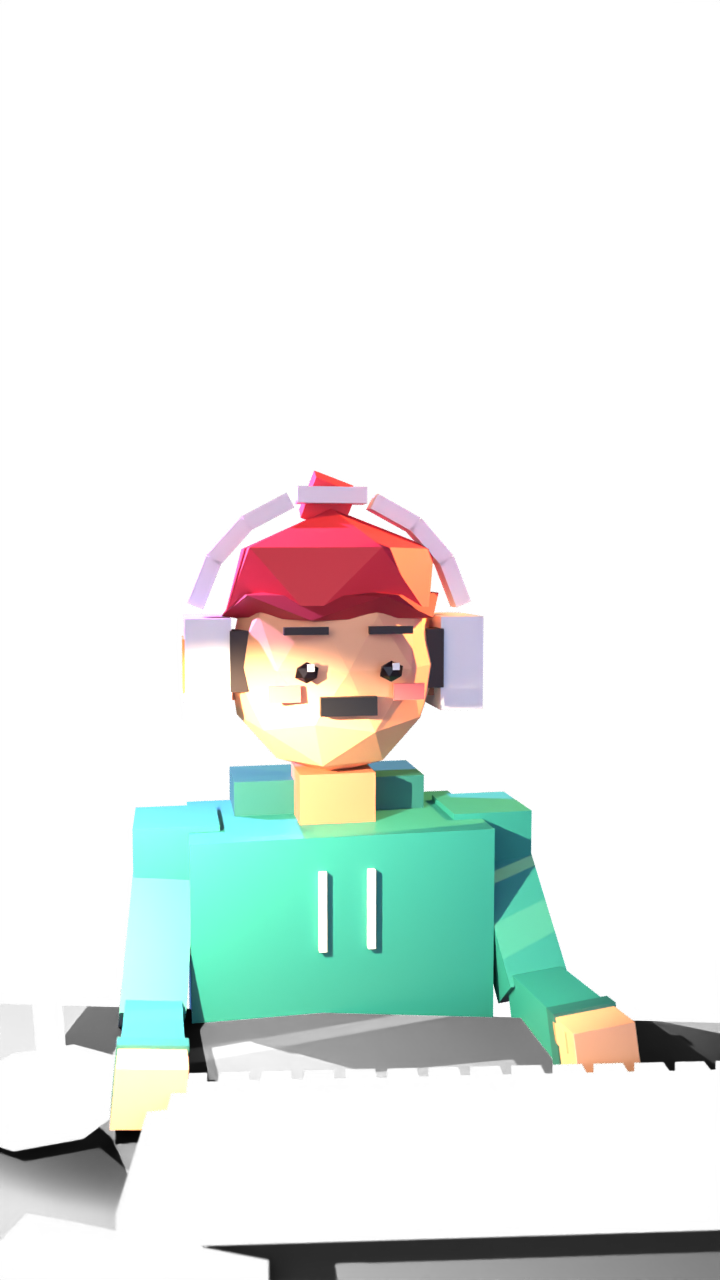
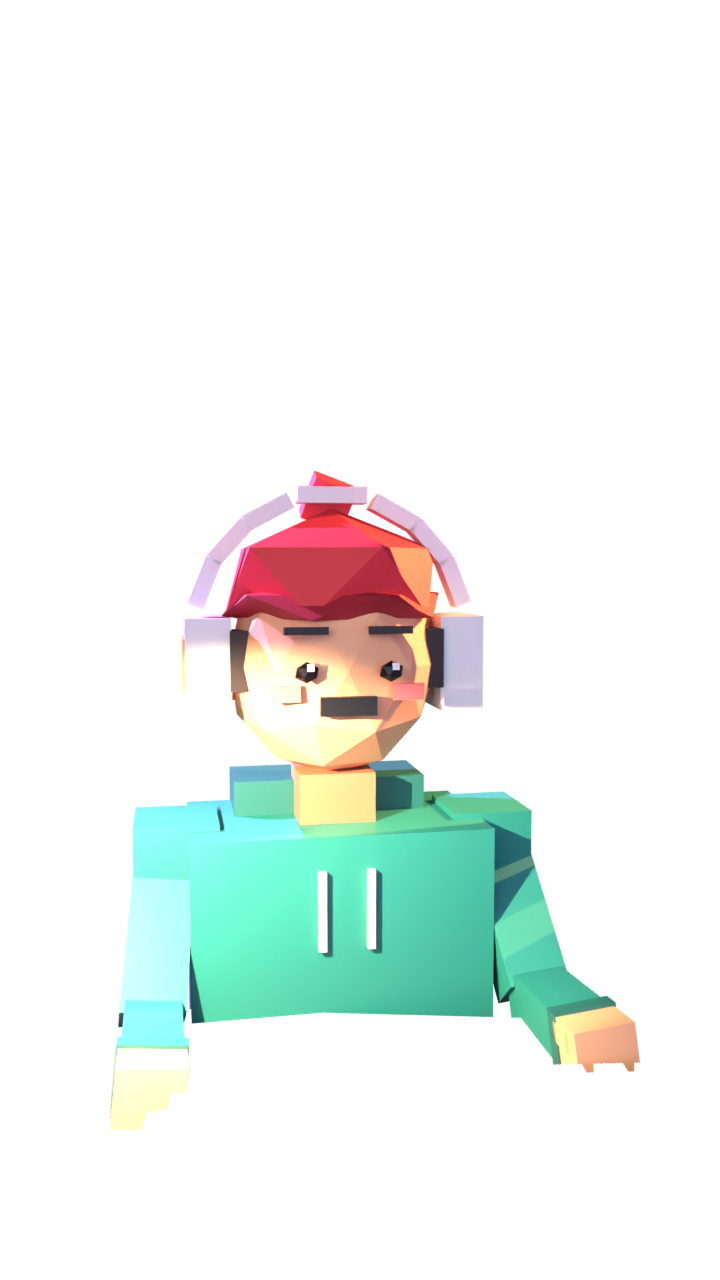
videosclaude: sombras fijas en capa aparte, poses/expresiones malas eliminadas (re-render de biblioteca en progreso)
Claude-Session: https://claude.ai/code/session_01UH48RdTZGtKBWsBMCmwfW2

diff --git a/videosclaude/motor/render_biblioteca.py b/videosclaude/motor/render_biblioteca.py
@@ -1,8 +1,9 @@
 """Renderiza LA BIBLIOTECA de capas reutilizables (se hace UNA vez; los videos se montan despues con montar_video.py).
 
 Por cada PLANO (camara) genera:
+  sombra_humano.png / sombra_claude.png -> SOLO la sombra de cada personaje sobre el escritorio (capa FIJA: no se mueve con los botecitos)
   fondo.png                       -> habitacion sin personajes, con la pantalla del monitor VACIA (neutra)
-  humano_<emocion>_<boca>.png     -> solo el humano, fondo transparente (RGBA) + sombra sobre el escritorio
+  humano_<emocion>_<boca>.png     -> solo el humano, fondo transparente (RGBA), SIN sombra
   claude_<estado>.png             -> solo Clawd, fondo transparente (RGBA)
 y un manifest.json con el cuadrilatero de la pantalla (para pegar cualquier imagen en el monitor con perspectiva).
 
@@ -16,7 +17,11 @@ import escena as E
 import bpy
 from bpy_extras.object_utils import world_to_camera_view
 
-OUT = sys.argv[1]; ONLY = sys.argv[2:]
+OUT = sys.argv[1]; ARGS = sys.argv[2:]
+SIN_FONDO = '--sin-fondo' in ARGS
+ONLY = [a for a in ARGS if not a.startswith('--')]
+import numpy as np
+from PIL import Image
 W, H = 720, 1280
 sc = E.sc; sc.render.resolution_x, sc.render.resolution_y = W, H
 sc.render.image_settings.color_mode = 'RGBA'
@@ -37,14 +42,31 @@ def capa_fondo():
     reset()
     for o in HUM | CLA: o.hide_render = True
 
-def capa_personaje(quien):   # 'h' o 'c'
+def capa_personaje(quien):   # 'h' o 'c'  -> SOLO el personaje, SIN sombra (la sombra va en su propia capa fija)
     reset(); sc.render.film_transparent = True
     mios, otros = (HUM, CLA) if quien == 'h' else (CLA, HUM)
     for o in otros: o.hide_render = True
     for o in MESHES:
         if o in HUM or o in CLA: continue
         o.is_holdout = True            # el resto de la sala recorta (oclusion correcta) pero no se ve
-    DESK.is_holdout = False; DESK.is_shadow_catcher = True   # solo su sombra
+
+def capa_sombra(visibles):   # solo la sombra sobre el escritorio (shadow catcher) con los personajes `visibles`
+    reset(); sc.render.film_transparent = True
+    for o in HUM | CLA: o.hide_render = o not in visibles
+    for o in MESHES:
+        if o in HUM or o in CLA: o.is_holdout = True          # recorta al personaje pero proyecta sombra
+        elif o is DESK: o.is_shadow_catcher = True
+        else: o.is_holdout = True
+
+def sombra_de(quien, ruta, tmp0):
+    """sombra que anade el personaje = (sombra con el) - (sombra sin el). Solo canal alfa, color negro."""
+    vis = HUM if quien == 'h' else CLA
+    capa_sombra(vis); E.render(ruta + '.tmp.png')
+    a1 = np.array(Image.open(ruta + '.tmp.png').convert('RGBA'))[..., 3].astype(int)
+    a0 = np.array(Image.open(tmp0).convert('RGBA'))[..., 3].astype(int)
+    d = np.clip(a1 - a0, 0, 255).astype(np.uint8)
+    out = np.zeros(d.shape + (4,), np.uint8); out[..., 3] = d
+    Image.fromarray(out, 'RGBA').save(ruta); os.remove(ruta + '.tmp.png')
 
 # --- estados del humano: emocion x boca
 EMO = {'neutral': 'neutral', 'feliz': 'happy', 'preocupado': 'worried', 'burlon': 'smug'}
@@ -90,12 +112,15 @@ for nombre, P in PLANOS.items():
     E.SCR.data.materials.clear(); E.SCR.data.materials.append(E.SCREENS['vacia'])
     E.set_cam(*B['cam'])
     info = {'camara': [list(B['cam'][0]), list(B['cam'][1]), B['cam'][2]], 'descripcion': B['desc'],
-            'pantalla_quad': quad_pantalla(), 'fondo': 'fondo.png', 'humano': {}, 'claude': {}}
+            'pantalla_quad': quad_pantalla(), 'fondo': 'fondo.png', 'sombra': {}, 'humano': {}, 'claude': {}}
     # fondo
     E.set_human('type', 'neutral'); E.set_clawd(E.POS['lamp'], 'stand')
-    capa_fondo(); E.render(f'{d}/fondo.png'); print('OK', nombre, 'fondo', flush=True)
+    if not (SIN_FONDO and os.path.exists(f'{d}/fondo.png')):
+        capa_fondo(); E.render(f'{d}/fondo.png'); print('OK', nombre, 'fondo', flush=True)
+    tmp0 = f'{d}/_s0.png'; capa_sombra(set()); E.render(tmp0)
     # humano
     if P['humano']:
+        E.set_human('type', 'neutral'); sombra_de('h', f'{d}/sombra_humano.png', tmp0); info['sombra']['humano'] = 'sombra_humano.png'; print('OK', nombre, 'sombra_humano', flush=True)
         for emo in EMO:
             for boca in BOCA:
                 humano(emo, boca); capa_personaje('h')
@@ -106,11 +131,13 @@ for nombre, P in PLANOS.items():
     # clawd
     if P['clawd']:
         pos, pose = P['clawd']
+        claude(pos, 'idle', pose); sombra_de('c', f'{d}/sombra_claude.png', tmp0); info['sombra']['claude'] = 'sombra_claude.png'; print('OK', nombre, 'sombra_claude', flush=True)
         estados = ['idle'] if pose == 'look' else ['idle', 'parpadeo', 'feliz']
         for est in estados:
             claude(pos, est, pose); capa_personaje('c')
             f = f'claude_{est}.png'; E.render(f'{d}/{f}'); info['claude'][est] = f
             print('OK', nombre, f, flush=True)
+    os.remove(tmp0)
     manifest['planos'][nombre] = info
     json.dump(manifest, open(mf_path, 'w'), indent=1, ensure_ascii=False)
 reset(); print('BIBLIOTECA LISTA')

diff --git a/videosclaude/motor/escena.py b/videosclaude/motor/escena.py
@@ -226,23 +226,15 @@ for name, sx in (('L', -1), ('R', 1)):
     ARM[name] = (sh, el)
 
 # poses: (hombro_x, hombro_y, codo_x, codo_y) para L y R, inclinacion cabeza (x,y,z), torso x
-HPOSE = {
-    'type':  dict(L=(-38, 6, -58, 0),  R=(-38, -6, -58, 0), head=(0, 0, 0), lean=0),
-    'mouse': dict(L=(-38, 6, -58, 0),  R=(-30, -30, -62, 18), head=(0, R and 0, 0), lean=0),
-    'think': dict(L=(-38, 6, -58, 0),  R=(-70, -42, -100, 0), head=(0, 0, 6), lean=2),
-    'shrug': dict(L=(-6, 38, -78, 30), R=(-6, -38, -78, -30), head=(0, 0, 8), lean=0, raise_=0.07),
-    'lean':  dict(L=(-34, 8, -64, 0),  R=(-58, -34, -105, 0), head=(6, 0, -8), lean=12),
-    'point': dict(L=(-38, 6, -58, 0),  R=(-70, -45, -26, 0), head=(0, 0, -4), lean=3),
-    'facepalm': dict(L=(-38, 6, -58, 0), R=(-64, -40, -105, 0), head=(14, 0, 0), lean=8),
+HPOSE = {   # solo queda la pose que funciona: manos en el teclado. (pensar/facepalm/encoger/inclinar/señalar se BORRARON: los brazos no articulaban bien)
+    'type': dict(L=(-38, 6, -58, 0), R=(-38, -6, -58, 0), head=(0, 0, 0), lean=0),
 }
 # expresiones: boca(w,h), cejas(y, rot), ojos(escala z), pupila escala
 EXPR = {
     'neutral':   dict(mouth=(0.08, 0.018), brow=(0.115, 0), eye=1.0),
     'talk':      dict(mouth=(0.06, 0.028), brow=(0.125, 0), eye=1.0),
-    'surprised': dict(mouth=(0.04, 0.032), brow=(0.16, 0), eye=1.2),
     'worried':   dict(mouth=(0.06, 0.012), brow=(0.135, 14), eye=1.0),
     'smug':      dict(mouth=(0.09, 0.012), brow=(0.13, -10), eye=0.6),
-    'sleepy':    dict(mouth=(0.045, 0.012), brow=(0.1, 0), eye=0.3),
     'happy':     dict(mouth=(0.09, 0.03), brow=(0.13, 0), eye=0.55),
 }
 def set_human(pose, expr):
@@ -271,16 +263,9 @@ for n, sx in (('L', -1), ('R', 1)):
     cube('carm_m', (sx * 0.2, 0, 0), (0.22, 0.2, 0.15), M_claw, p); CARM[n] = p
 CEYES = [cube('ceye', (sx * 0.26, -0.435, 0.6), (0.075, 0.02, 0.1), M_dark, CB) for sx in (-1, 1)]
 CHL = [cube('chl', (sx * 0.26 + 0.02, -0.452, 0.65), (0.022, 0.006, 0.03), M_white, CB) for sx in (-1, 1)]
-CPOSE = {
-    'stand':  dict(arms=(-18, 18), eye=1.0, squash=1.0, rz=-10, ry=0, hop=0),
-    'wave':   dict(arms=(-18, -82), eye=1.0, squash=1.0, rz=-10, ry=0, hop=0),
-    'cheer':  dict(arms=(75, -75), eye=0.35, squash=1.1, rz=0, ry=0, hop=0.12),
-    'curious': dict(arms=(-10, 10), eye=1.15, squash=1.0, rz=-20, ry=11, hop=0),
-    'shy':    dict(arms=(-30, 30), eye=0.3, squash=0.92, rz=-25, ry=0, hop=0),
-    'look':   dict(arms=(-18, 18), eye=1.0, squash=1.0, rz=140, ry=0, hop=0),   # de espaldas, mirando la pantalla
-    'sit':    dict(arms=(-40, 40), eye=1.0, squash=0.95, rz=-8, ry=0, hop=-0.1, sit=True),
-    'shock':  dict(arms=(60, -60), eye=1.35, squash=1.18, rz=0, ry=0, hop=0.05),
-    'sleep':  dict(arms=(-25, 25), eye=0.12, squash=0.9, rz=-12, ry=6, hop=0, sit=True),
+CPOSE = {   # Clawd: solo 'stand' (de pie) y 'look' (de espaldas mirando el monitor). Poses raras BORRADAS.
+    'stand': dict(arms=(-18, 18), eye=1.0, squash=1.0, rz=-10, ry=0, hop=0),
+    'look':  dict(arms=(-18, 18), eye=1.0, squash=1.0, rz=140, ry=0, hop=0),
 }
 def set_clawd(pos, pose, face=0):
     P = CPOSE[pose]

diff --git a/videosclaude/motor/montar_video.py b/videosclaude/motor/montar_video.py
@@ -21,6 +21,7 @@ RAIZ = os.path.abspath(os.path.join(os.path.dirname(os.path.abspath(__file__)), 
 BIB = os.path.join(RAIZ, 'biblioteca')
 FONT = '/usr/share/fonts/truetype/dejavu/DejaVuSans-Bold.ttf'
 COL = {'humano': (120, 220, 215), 'claude': (240, 125, 85)}
+SOMBRA = 0.55   # intensidad de las sombras fijas (0-1)
 CICLO_BOCA = ['media', 'abierta', 'media', 'cerrada', 'abierta', 'media']
 
 def args():
@@ -61,6 +62,12 @@ def fondo_con_pantalla(plano, pantalla):
         mask = Image.new('L', img.size, 255).transform((W, H), Image.PERSPECTIVE, tuple(c), Image.BICUBIC)
         warp.putalpha(mask); fondo = Image.alpha_composite(fondo, warp)
     _cache[k] = fondo; return fondo
+
+def sombra_capa(plano, f):
+    k = ('sombra', plano, f)
+    if k not in _cache:
+        im = cargar(plano, f).copy(); a = im.getchannel('A').point(lambda v: int(v * SOMBRA)); im.putalpha(a); _cache[k] = im
+    return _cache[k]
 
 def desplazar(capa, dy):
     out = Image.new('RGBA', capa.size, (0, 0, 0, 0)); out.paste(capa, (0, dy), capa); return out
@@ -119,6 +126,8 @@ def montar(guion, salida, solo=None):
         info = MF['planos'][plano]
         lienzo = fondo_con_pantalla(plano, estado['pantalla']).copy()
         habla_h = bool(act and act['quien'] == 'humano'); habla_c = bool(act and act['quien'] == 'claude')
+        for _q, _f in info.get('sombra', {}).items():          # sombras FIJAS: el escenario no se mueve con los personajes
+            lienzo = Image.alpha_composite(lienzo, sombra_capa(plano, _f))
         if info['humano']:
             boca = CICLO_BOCA[(i - int(act['inicio'] * fps)) % len(CICLO_BOCA)] if habla_h else 'cerrada'
             clave = f"{estado['emo']}_{boca}"

diff --git a/videosclaude/motor/indice_biblioteca.py b/videosclaude/motor/indice_biblioteca.py
@@ -11,6 +11,8 @@ for plano, info in MF['planos'].items():
     md.append(f"\n## Plano `{plano}` - {info['descripcion']}\n")
     md.append(f"- Fondo: `{plano}/{info['fondo']}` (habitacion sin personajes, monitor con pantalla `vacia`).")
     md.append(f"- Cuadrilatero del monitor (px, TL,TR,BR,BL): `{info['pantalla_quad']}`")
+    if info.get('sombra'):
+        md.append('- Sombras FIJAS (capas aparte, no se mueven): ' + ', '.join(f'`{v}`' for v in info['sombra'].values()))
     if info['humano']:
         md.append('- Capas del humano (RGBA, fondo transparente + sombra): ' + ', '.join(f'`{v}`' for v in info['humano'].values()))
     if info['claude']:
@@ -22,7 +24,12 @@ for plano, info in MF['planos'].items():
     for i, (nombre, f) in enumerate(capas):
         p = os.path.join(BIB, plano, f)
         if not os.path.exists(p): continue
-        im = Image.open(p).convert('RGBA'); im = im if nombre == 'fondo' else Image.alpha_composite(fondo, im)
+        im = Image.open(p).convert('RGBA')
+        if nombre != 'fondo':
+            base_ = fondo.copy()
+            for sf in info.get('sombra', {}).values():
+                sh = Image.open(os.path.join(BIB, plano, sf)).convert('RGBA'); sh.putalpha(sh.getchannel('A').point(lambda v: int(v * 0.55))); base_ = Image.alpha_composite(base_, sh)
+            im = Image.alpha_composite(base_, im)
         im = im.convert('RGB').resize((tw, th)); ImageDraw.Draw(im).text((4, 4), nombre, font=F, fill=(255, 255, 0), stroke_width=2, stroke_fill=(0, 0, 0))
         hoja.paste(im, ((i % cols) * tw, (i // cols) * th))
     hoja.save(os.path.join(BIB, plano, '_contacto.png'))
